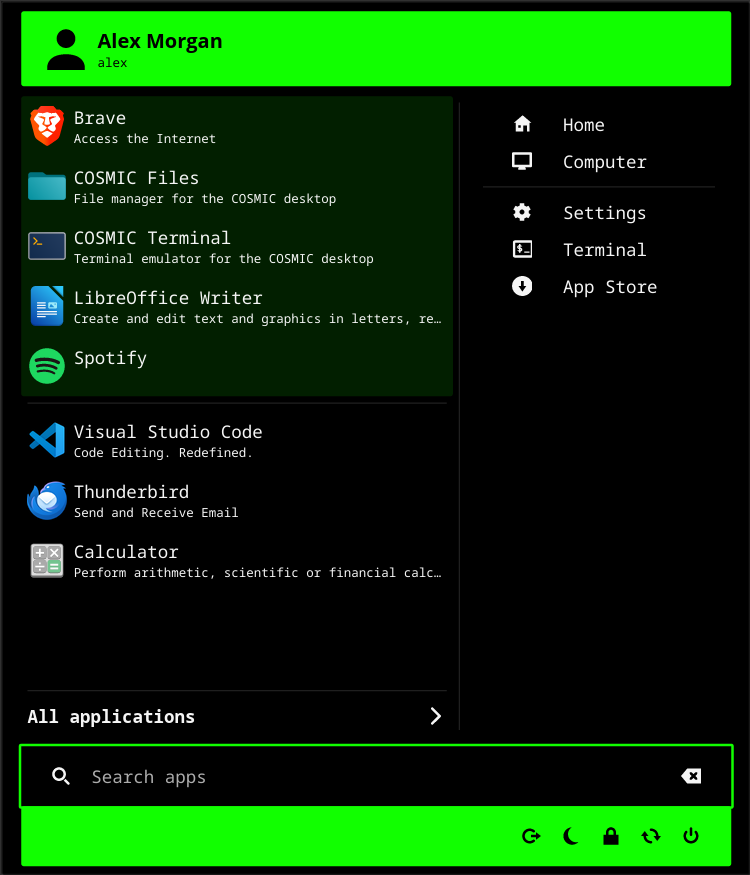
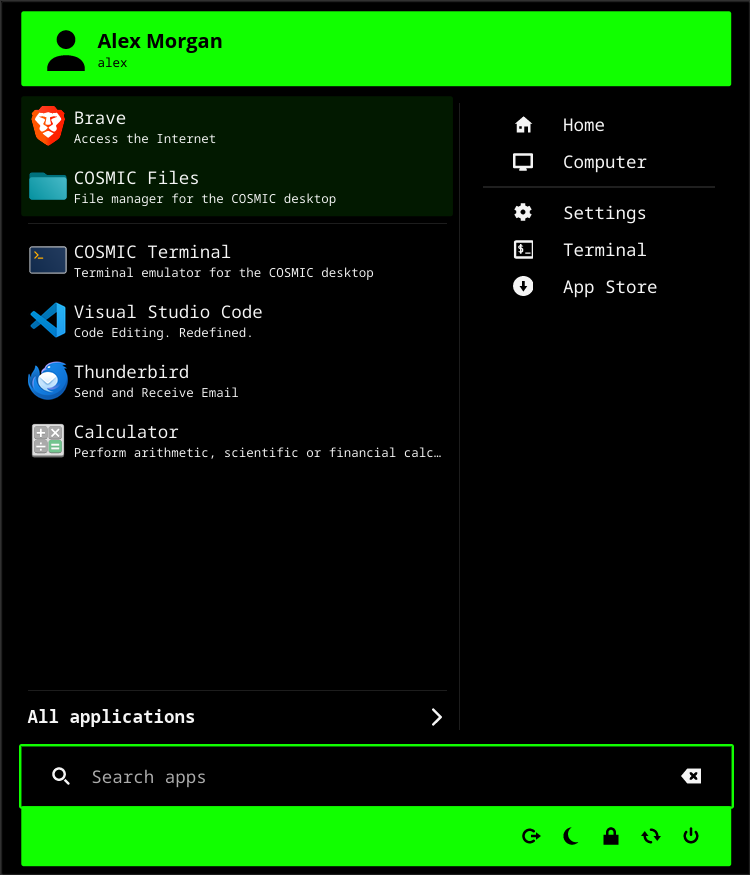
feat: number of favorites on the Whistler start page
The start page shows only the first two favorites by default, leaving
room for the recently used apps, which now include favorites that are
not shown. A "Start page" settings section, shown for layouts having
one, sets how many from 1 to 10.

So that added favorites show up there, the Whistler layout adds them
first, whether dropped on the start page or added from the context
menu.

diff --git a/settings/src/app.rs b/settings/src/app.rs
@@ -57,6 +57,8 @@ pub enum Message {
     ItemSizeChanged(usize),
     /// Whether the selected view shows app descriptions.
     ShowDescriptionToggled(bool),
+    /// How many favorites the start page shows.
+    StartPageFavoriteCountChanged(u16),
     SidePanelChanged(usize),
     PlaceToggled(Place, bool),
     /// The enabled place at this index was grabbed.
@@ -211,6 +213,7 @@ impl cosmic::Application for AppModel {
             ]
             .into_iter()
             .chain([self.app_view_section()])
+            .chain(self.start_page_section())
             .chain(self.side_panel_section())
             .chain([cosmic::widget::settings::section()
                     .title(fl!("general"))
@@ -464,6 +467,19 @@ impl cosmic::Application for AppModel {
 
                 Task::none()
             }
+            Message::StartPageFavoriteCountChanged(count) => {
+                self.config.start_page_favorite_count = count.clamp(
+                    *AppletConfig::START_PAGE_FAVORITE_COUNT_RANGE.start(),
+                    *AppletConfig::START_PAGE_FAVORITE_COUNT_RANGE.end(),
+                );
+                log::info!(
+                    "Start page favorites changed to: {}",
+                    self.config.start_page_favorite_count
+                );
+                self.save_config();
+
+                Task::none()
+            }
             Message::ButtonLabelChanged(new_label) => {
                 let mut new_label = new_label;
                 if new_label.len() == 0 {
@@ -558,6 +574,31 @@ impl AppModel {
             .add(Self::setting_item(fl!("item-size"), size))
             .add(Self::setting_item(fl!("show-description"), description))
             .into()
+    }
+
+    /// Options of the start page, for layouts having one.
+    fn start_page_section(&self) -> Option<Element<'_, Message>> {
+        if !self.config.menu_layout.has_start_page() {
+            return None;
+        }
+
+        let count = self.config.start_page_favorite_count;
+        let favorites = cosmic::widget::spin_button(
+            count.to_string(),
+            fl!("start-page-favorites"),
+            count,
+            1,
+            *AppletConfig::START_PAGE_FAVORITE_COUNT_RANGE.start(),
+            *AppletConfig::START_PAGE_FAVORITE_COUNT_RANGE.end(),
+            Message::StartPageFavoriteCountChanged,
+        );
+
+        Some(
+            cosmic::widget::settings::section()
+                .title(fl!("start-page"))
+                .add(Self::setting_item(fl!("start-page-favorites"), favorites))
+                .into(),
+        )
     }
 
     /// Choice between categories and places, for layouts with a side panel.

diff --git a/applet/src/applet.rs b/applet/src/applet.rs
@@ -315,6 +315,9 @@ impl Application for Applet {
                 // context menu show.
                 self.update_featured_applications();
                 self.update_context_menu();
+                if self.start_page_favorites.is_some() {
+                    self.show_start_page();
+                }
 
                 Task::none()
             }
@@ -397,6 +400,9 @@ impl Application for Applet {
                     let mut favorites = self.config.favorite_applications.clone();
                     if let Some(position) = favorites.iter().position(|id| *id == app.id) {
                         favorites.remove(position);
+                    } else if self.config.menu_layout.has_start_page() {
+                        // The start page shows only the first favorites.
+                        favorites.insert(0, app.id.clone());
                     } else {
                         favorites.push(app.id.clone());
                     }
@@ -667,16 +673,21 @@ impl Applet {
     /// Recently used apps shown on the start page, below the favorites.
     const START_PAGE_RECENT_APPLICATIONS: usize = 8;
 
-    /// Shows the start page of the favorites, then the recently used apps
-    /// that are not among them, in layouts having one. Returns whether it
-    /// is shown.
+    /// Shows the start page of the first favorites, then the recently used
+    /// apps that are not among them, in layouts having one. Returns whether
+    /// it is shown.
     fn show_start_page(&mut self) -> bool {
         if !self.config.menu_layout.has_start_page() {
             self.start_page_favorites = None;
             return false;
         }
 
-        let favorites = &self.favorite_applications;
+        let count = self.config.start_page_favorite_count.clamp(
+            *AppletConfig::START_PAGE_FAVORITE_COUNT_RANGE.start(),
+            *AppletConfig::START_PAGE_FAVORITE_COUNT_RANGE.end(),
+        );
+        let shown = self.favorite_applications.len().min(usize::from(count));
+        let favorites = &self.favorite_applications[..shown];
         let recent = self
             .recent_applications
             .iter()

diff --git a/applet/src/config.rs b/applet/src/config.rs
@@ -44,6 +44,9 @@ pub struct AppletConfig {
     pub grid_item_size: ItemSize,
     /// Whether the grid view shows app descriptions.
     pub grid_show_description: bool,
+    /// How many of the first favorites the start page shows, see
+    /// [`MenuLayout::has_start_page`].
+    pub start_page_favorite_count: u16,
 }
 
 impl Default for AppletConfig {
@@ -68,6 +71,7 @@ impl Default for AppletConfig {
             column_show_description: true,
             grid_item_size: ItemSize::default(),
             grid_show_description: false,
+            start_page_favorite_count: Self::DEFAULT_START_PAGE_FAVORITE_COUNT,
         }
     }
 }
@@ -77,6 +81,11 @@ impl AppletConfig {
     pub const DEFAULT_SIDE_PANEL_WIDTH: u16 = 38;
     /// Bounds of `side_panel_width`, keeping both panes usable.
     pub const SIDE_PANEL_WIDTH_RANGE: std::ops::RangeInclusive<u16> = 20..=60;
+
+    /// Favorites on the start page, leaving room for recently used apps.
+    pub const DEFAULT_START_PAGE_FAVORITE_COUNT: u16 = 2;
+    /// Bounds of `start_page_favorite_count`.
+    pub const START_PAGE_FAVORITE_COUNT_RANGE: std::ops::RangeInclusive<u16> = 1..=10;
 
     /// `FillPortion`s of the app list and the side panel.
     pub fn pane_portions(&self) -> (u16, u16) {

diff --git a/applet/src/applet_menu.rs b/applet/src/applet_menu.rs
@@ -676,7 +676,9 @@ impl AppletMenu {
         };
         // A tinted background sets the favorites apart from the recently
         // used apps.
-        let drop_hovered = applet.favorites_drop_target == Some(FavoritesDropTarget::Add);
+        // Dropped apps go first, as only the first favorites are shown.
+        let drop_target = FavoritesDropTarget::Before(0);
+        let drop_hovered = applet.favorites_drop_target == Some(drop_target);
         let favorites = container(favorites).width(Length::Fill).class(
             cosmic::theme::Container::custom(move |theme| {
                 let mut style = AppletMenu::drop_target_style(drop_hovered)(theme);
@@ -691,7 +693,7 @@ impl AppletMenu {
 
         let mut list = column![AppletMenu::favorites_drop_target(
             favorites,
-            FavoritesDropTarget::Add
+            drop_target
         )];
         if !recent_rows.is_empty() {
             list = list
